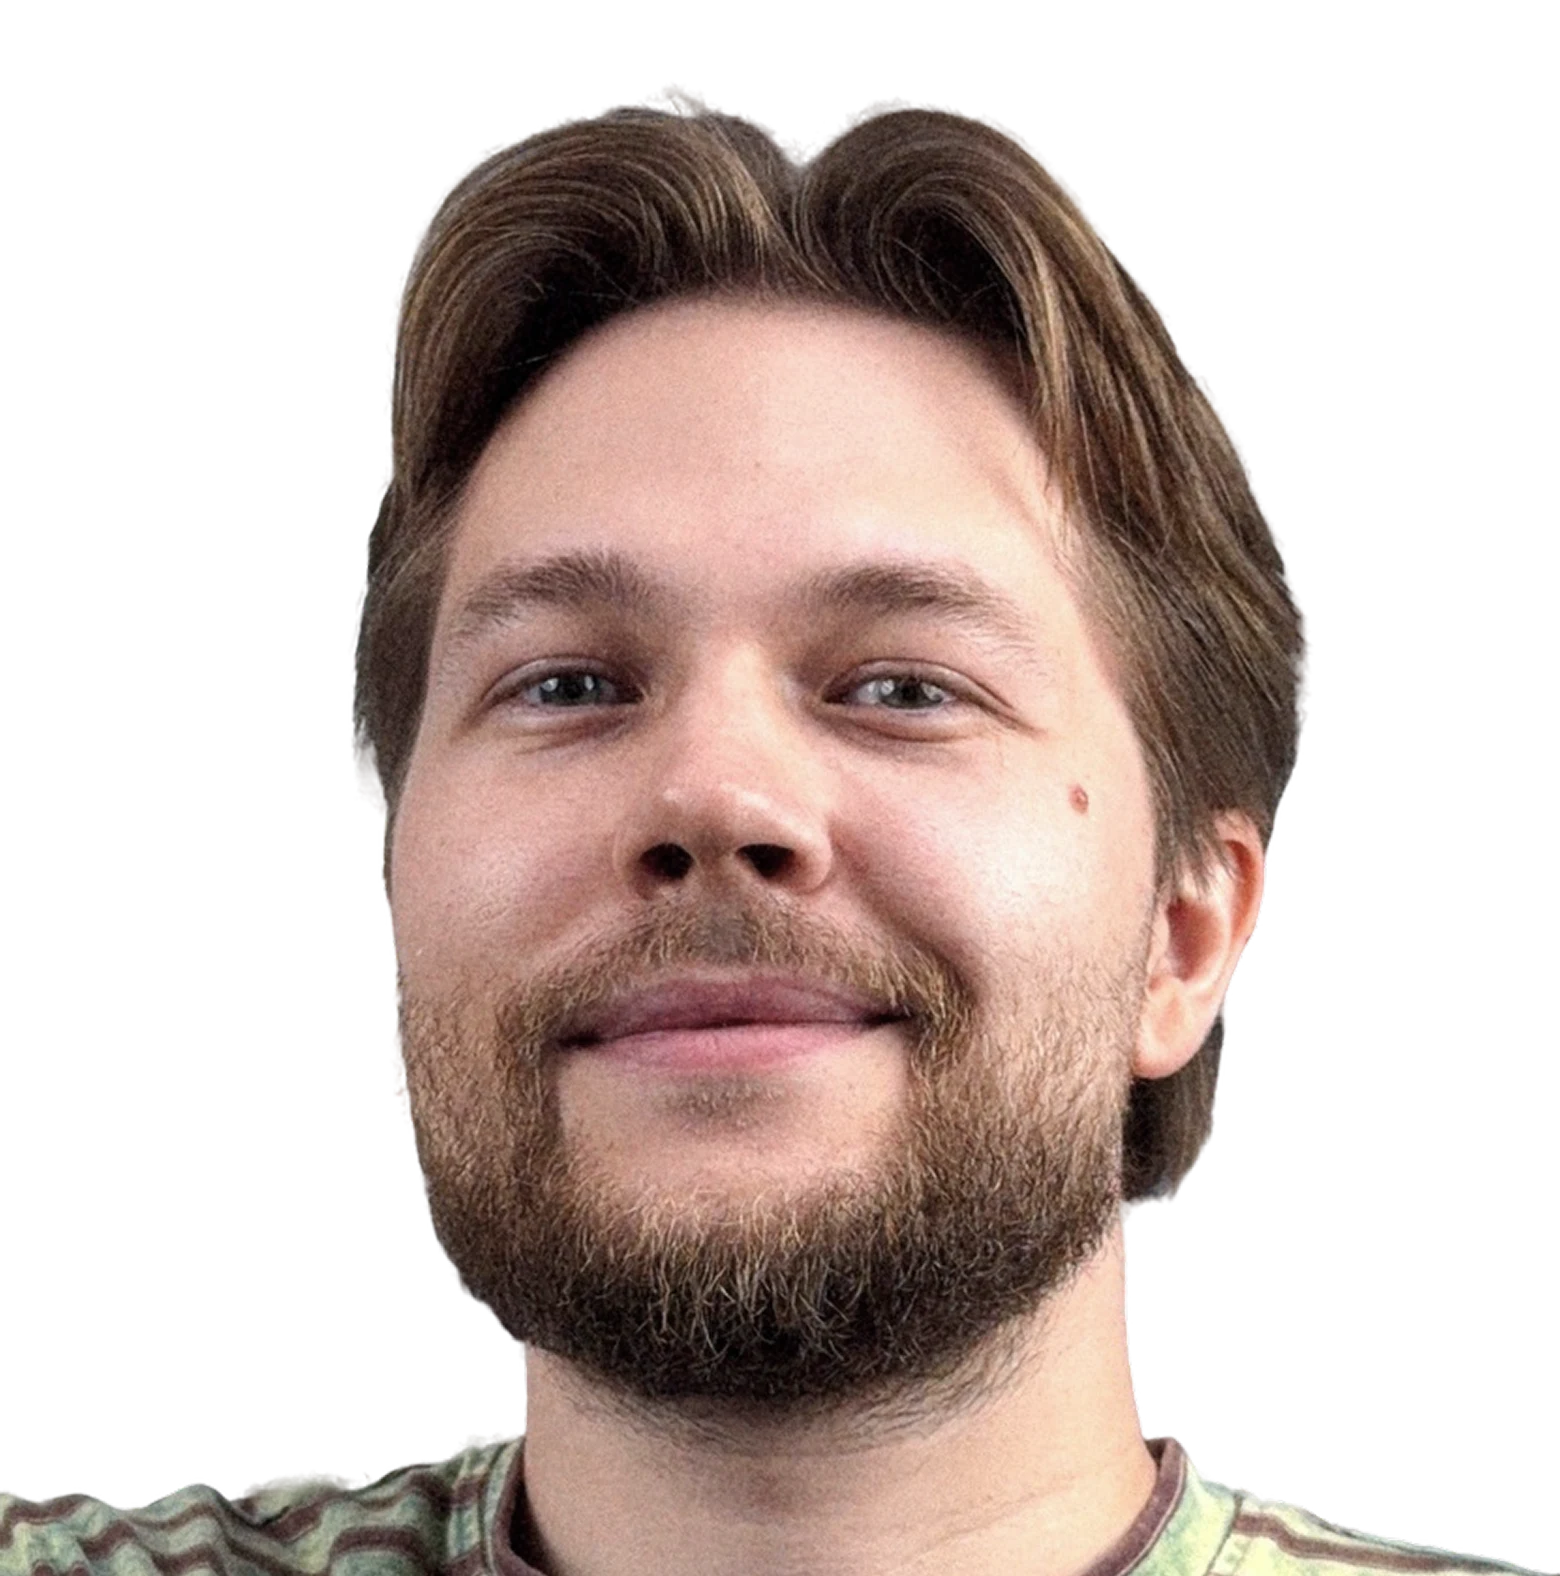
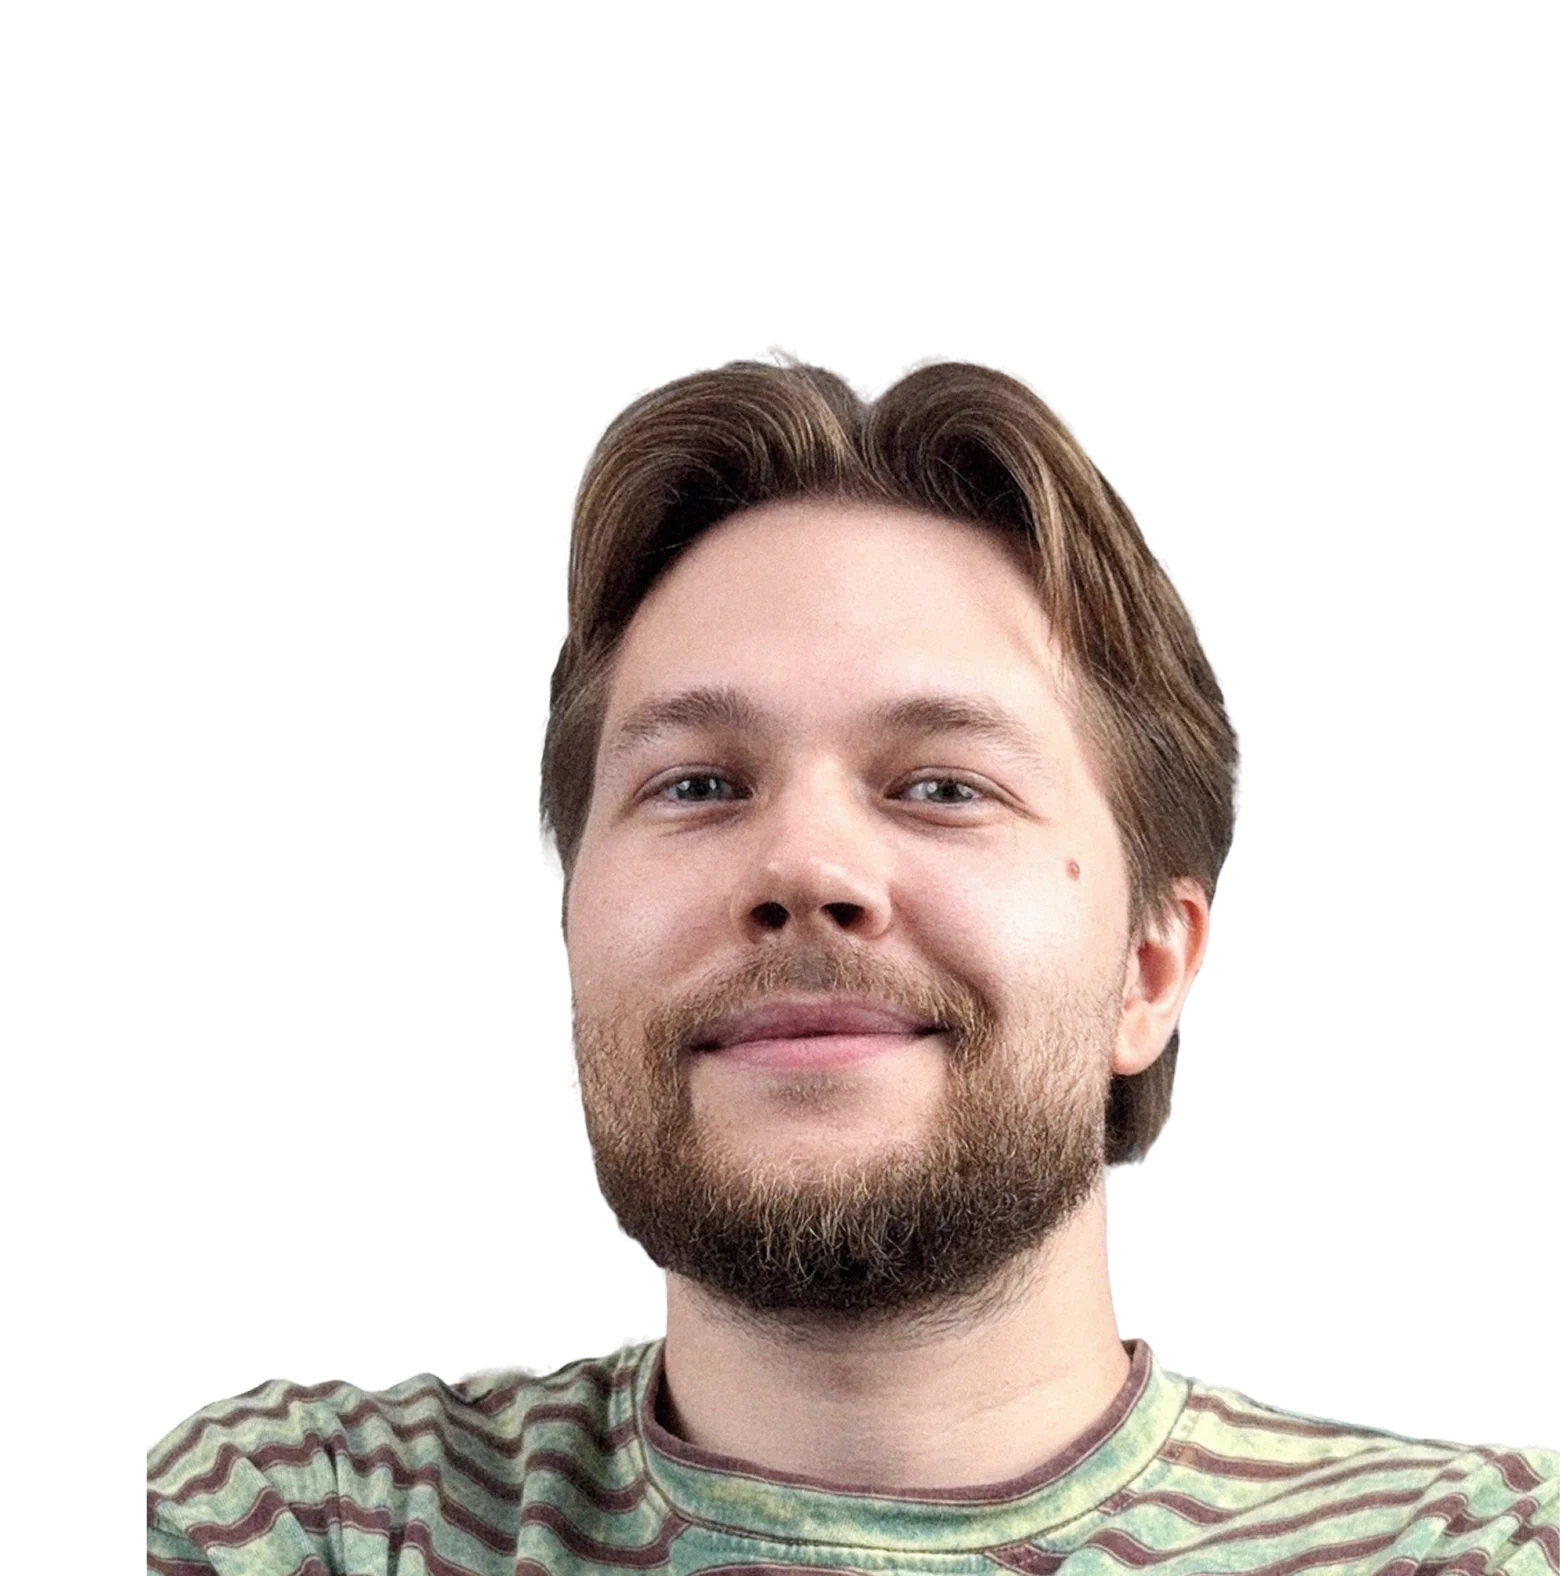
update team portraits and add barbers

diff --git a/app/globals.css b/app/globals.css
@@ -927,8 +927,8 @@ button:active {
 .barber-card__copy { position: relative; z-index: 2; padding: 12px; }
 .barber-card h3 { margin: 0; font-size: 20px; line-height: 20px; font-weight: 600; letter-spacing: -.04em; }
 .barber-card p { margin: 8px 0 0; font-size: 14px; line-height: 14px; opacity: .78; }
-.barber-card__media { position: absolute; right: 0; bottom: 0; width: 100%; height: 78%; display: flex; align-items: end; justify-content: center; overflow: hidden; }
-.barber-card__image { position: absolute; inset: 0; width: 100%; height: 100%; object-fit: contain; object-position: center bottom; mix-blend-mode: multiply; }
+.barber-card__media { position: absolute; right: 0; bottom: 0; width: 100%; height: 78%; display: flex; align-items: end; justify-content: flex-end; overflow: hidden; }
+.barber-card__image { position: absolute; inset: 0; width: 100%; height: 100%; object-fit: contain; object-position: right bottom; mix-blend-mode: multiply; }
 .barber-card__media::after { content: ""; position: absolute; inset: 0; z-index: 1; background: linear-gradient(to bottom, transparent 68%, color-mix(in srgb, var(--barber-fade, #fff) 28%, transparent) 84%, var(--barber-fade, #fff) 100%); pointer-events: none; }
 .barber-card--purple .barber-card__image, .barber-card--dark .barber-card__image { mix-blend-mode: normal; }
 

diff --git a/components/TeamSection.tsx b/components/TeamSection.tsx
@@ -22,6 +22,9 @@ const team: TeamMember[] = [
   { name: "Имам", role: "Топ-барбер", image: "/images/barbers/имам.webp", theme: "dark" },
   { name: "Анна Ашрапова", role: "Барбер", image: "/images/barbers/анна ашрапова.webp", theme: "purple" },
   { name: "Тулиген", role: "Старший барбер", image: "/images/barbers/тулиген.webp", theme: "light" },
+  { name: "Александр", role: "Барбер", image: "/images/barbers/александр.webp", theme: "light" },
+  { name: "Михаил", role: "Барбер", image: "/images/barbers/михаил.webp", theme: "dark" },
+  { name: "Тимур", role: "Барбер", image: "/images/barbers/тимур.webp", theme: "light" },
 ];
 
 export default function TeamSection() {

diff --git a/components/BarberCard.tsx b/components/BarberCard.tsx
@@ -15,7 +15,7 @@ export default function BarberCard({ name, role, image, theme = "light" }: Barbe
         <p>{role}</p>
       </div>
       <div className="barber-card__media">
-        <Image className="barber-card__image" src={image} alt={`${name}, ${role}`} fill sizes="(max-width: 760px) 50vw, 25vw" style={{ objectFit: "contain", objectPosition: "center bottom" }} />
+        <Image className="barber-card__image" src={image} alt={`${name}, ${role}`} fill sizes="(max-width: 760px) 50vw, 25vw" style={{ objectFit: "contain", objectPosition: "right bottom" }} />
       </div>
     </article>
   );
